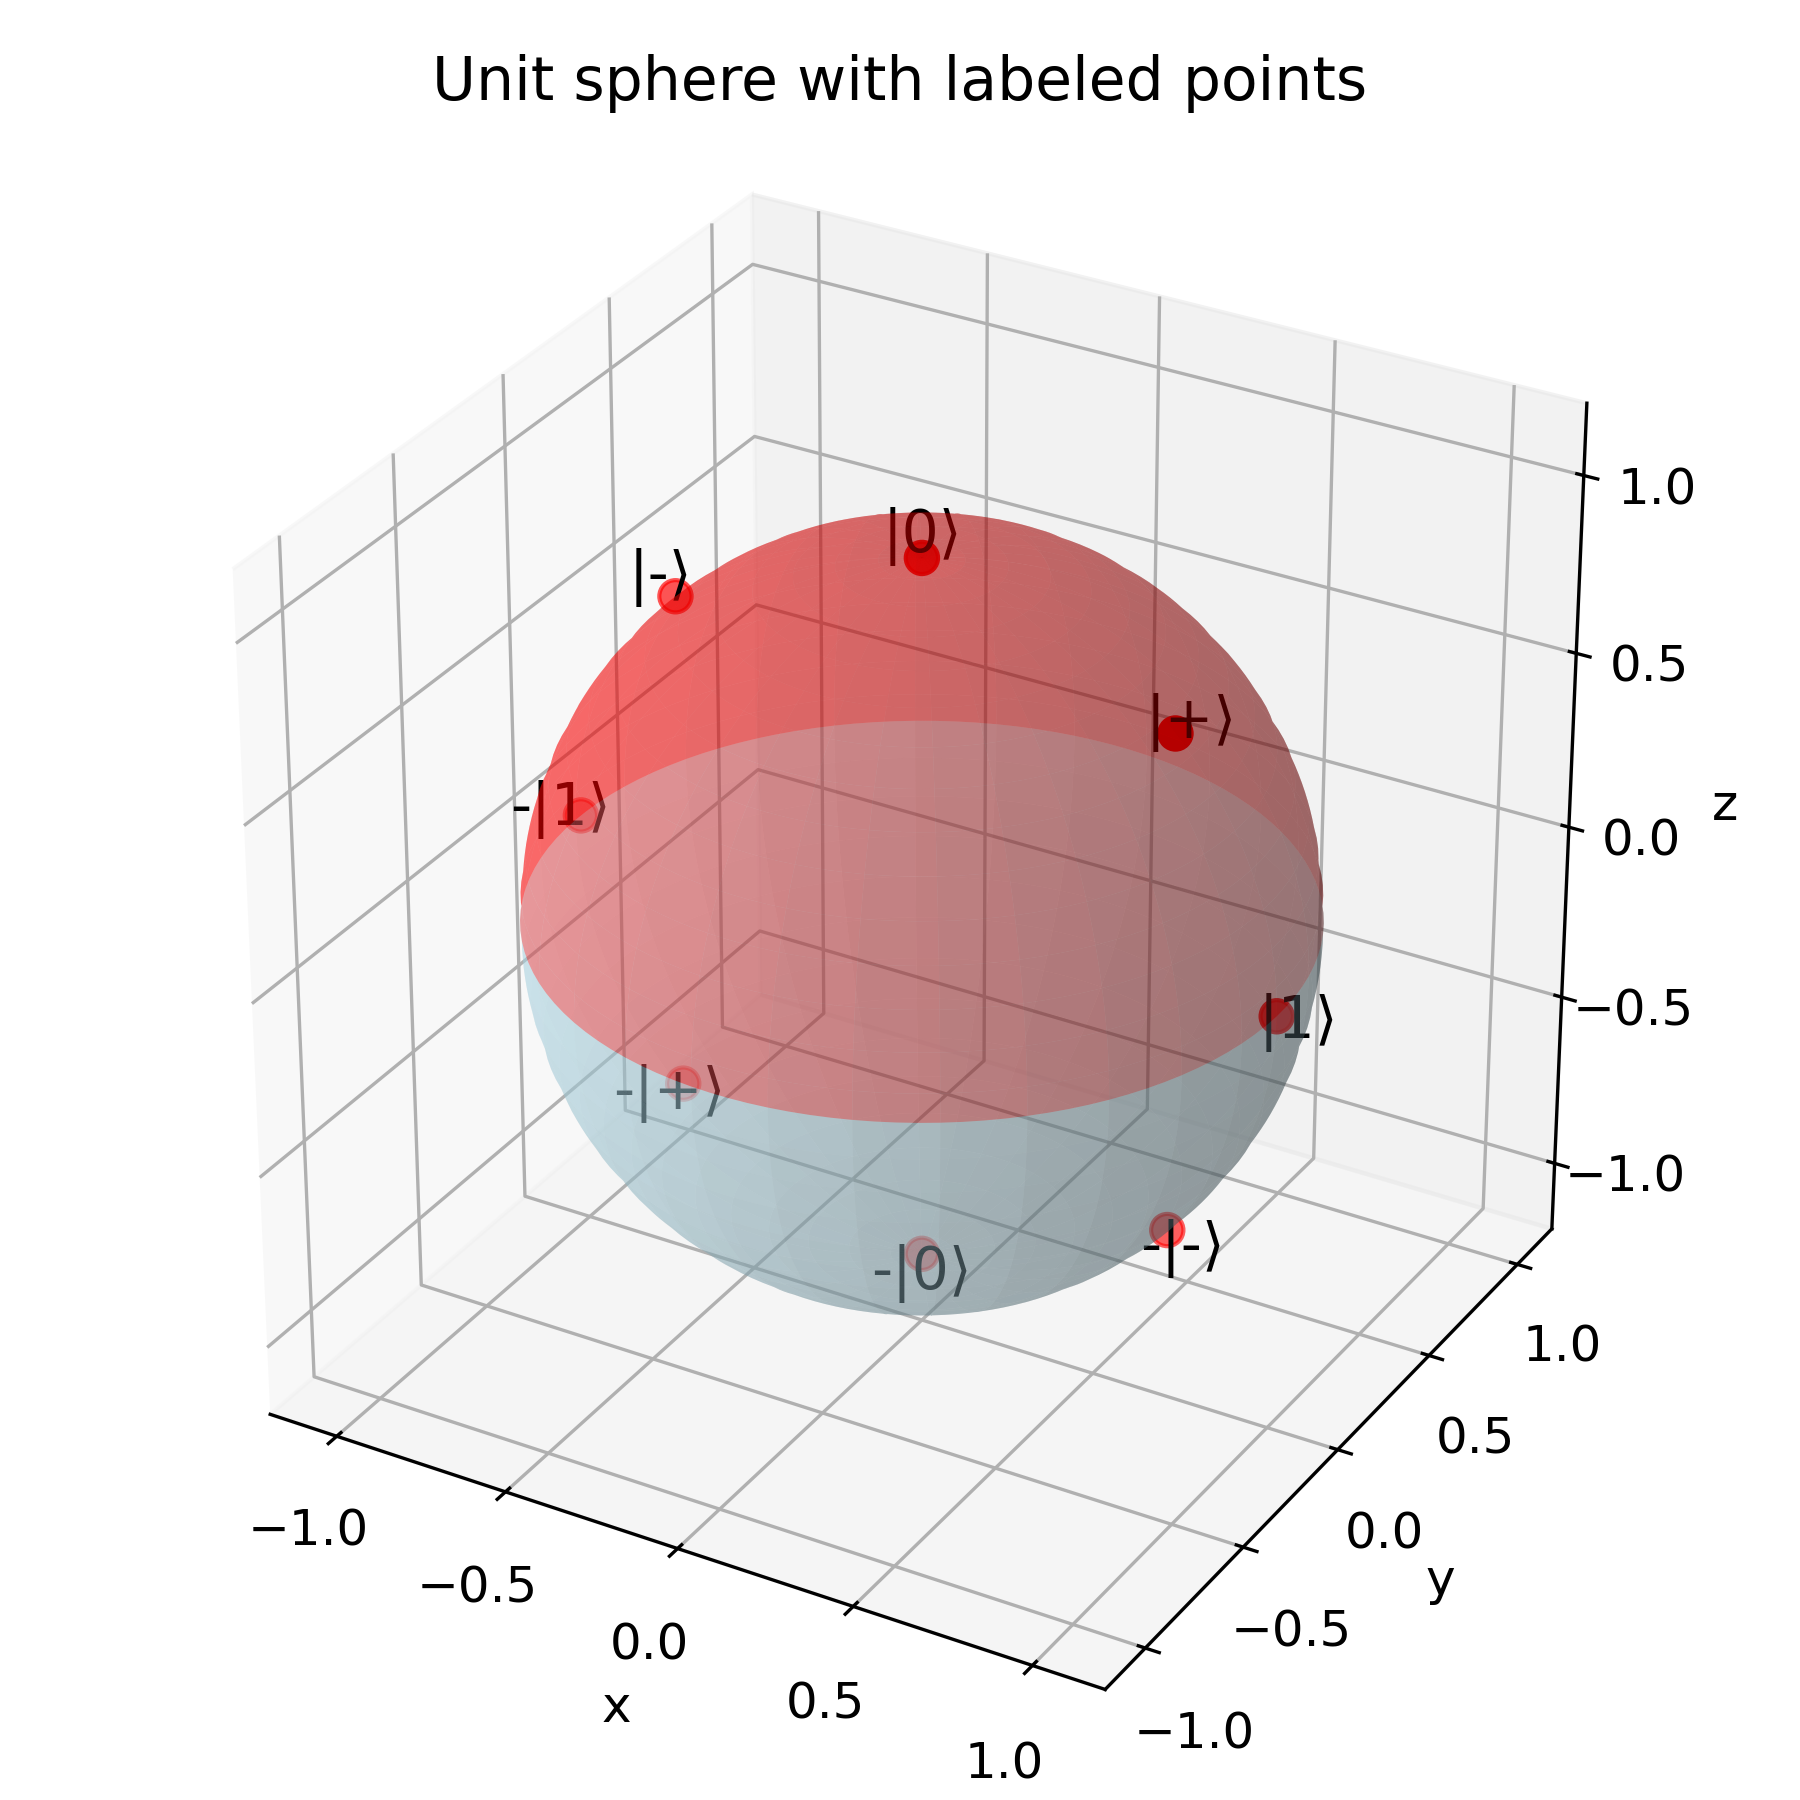
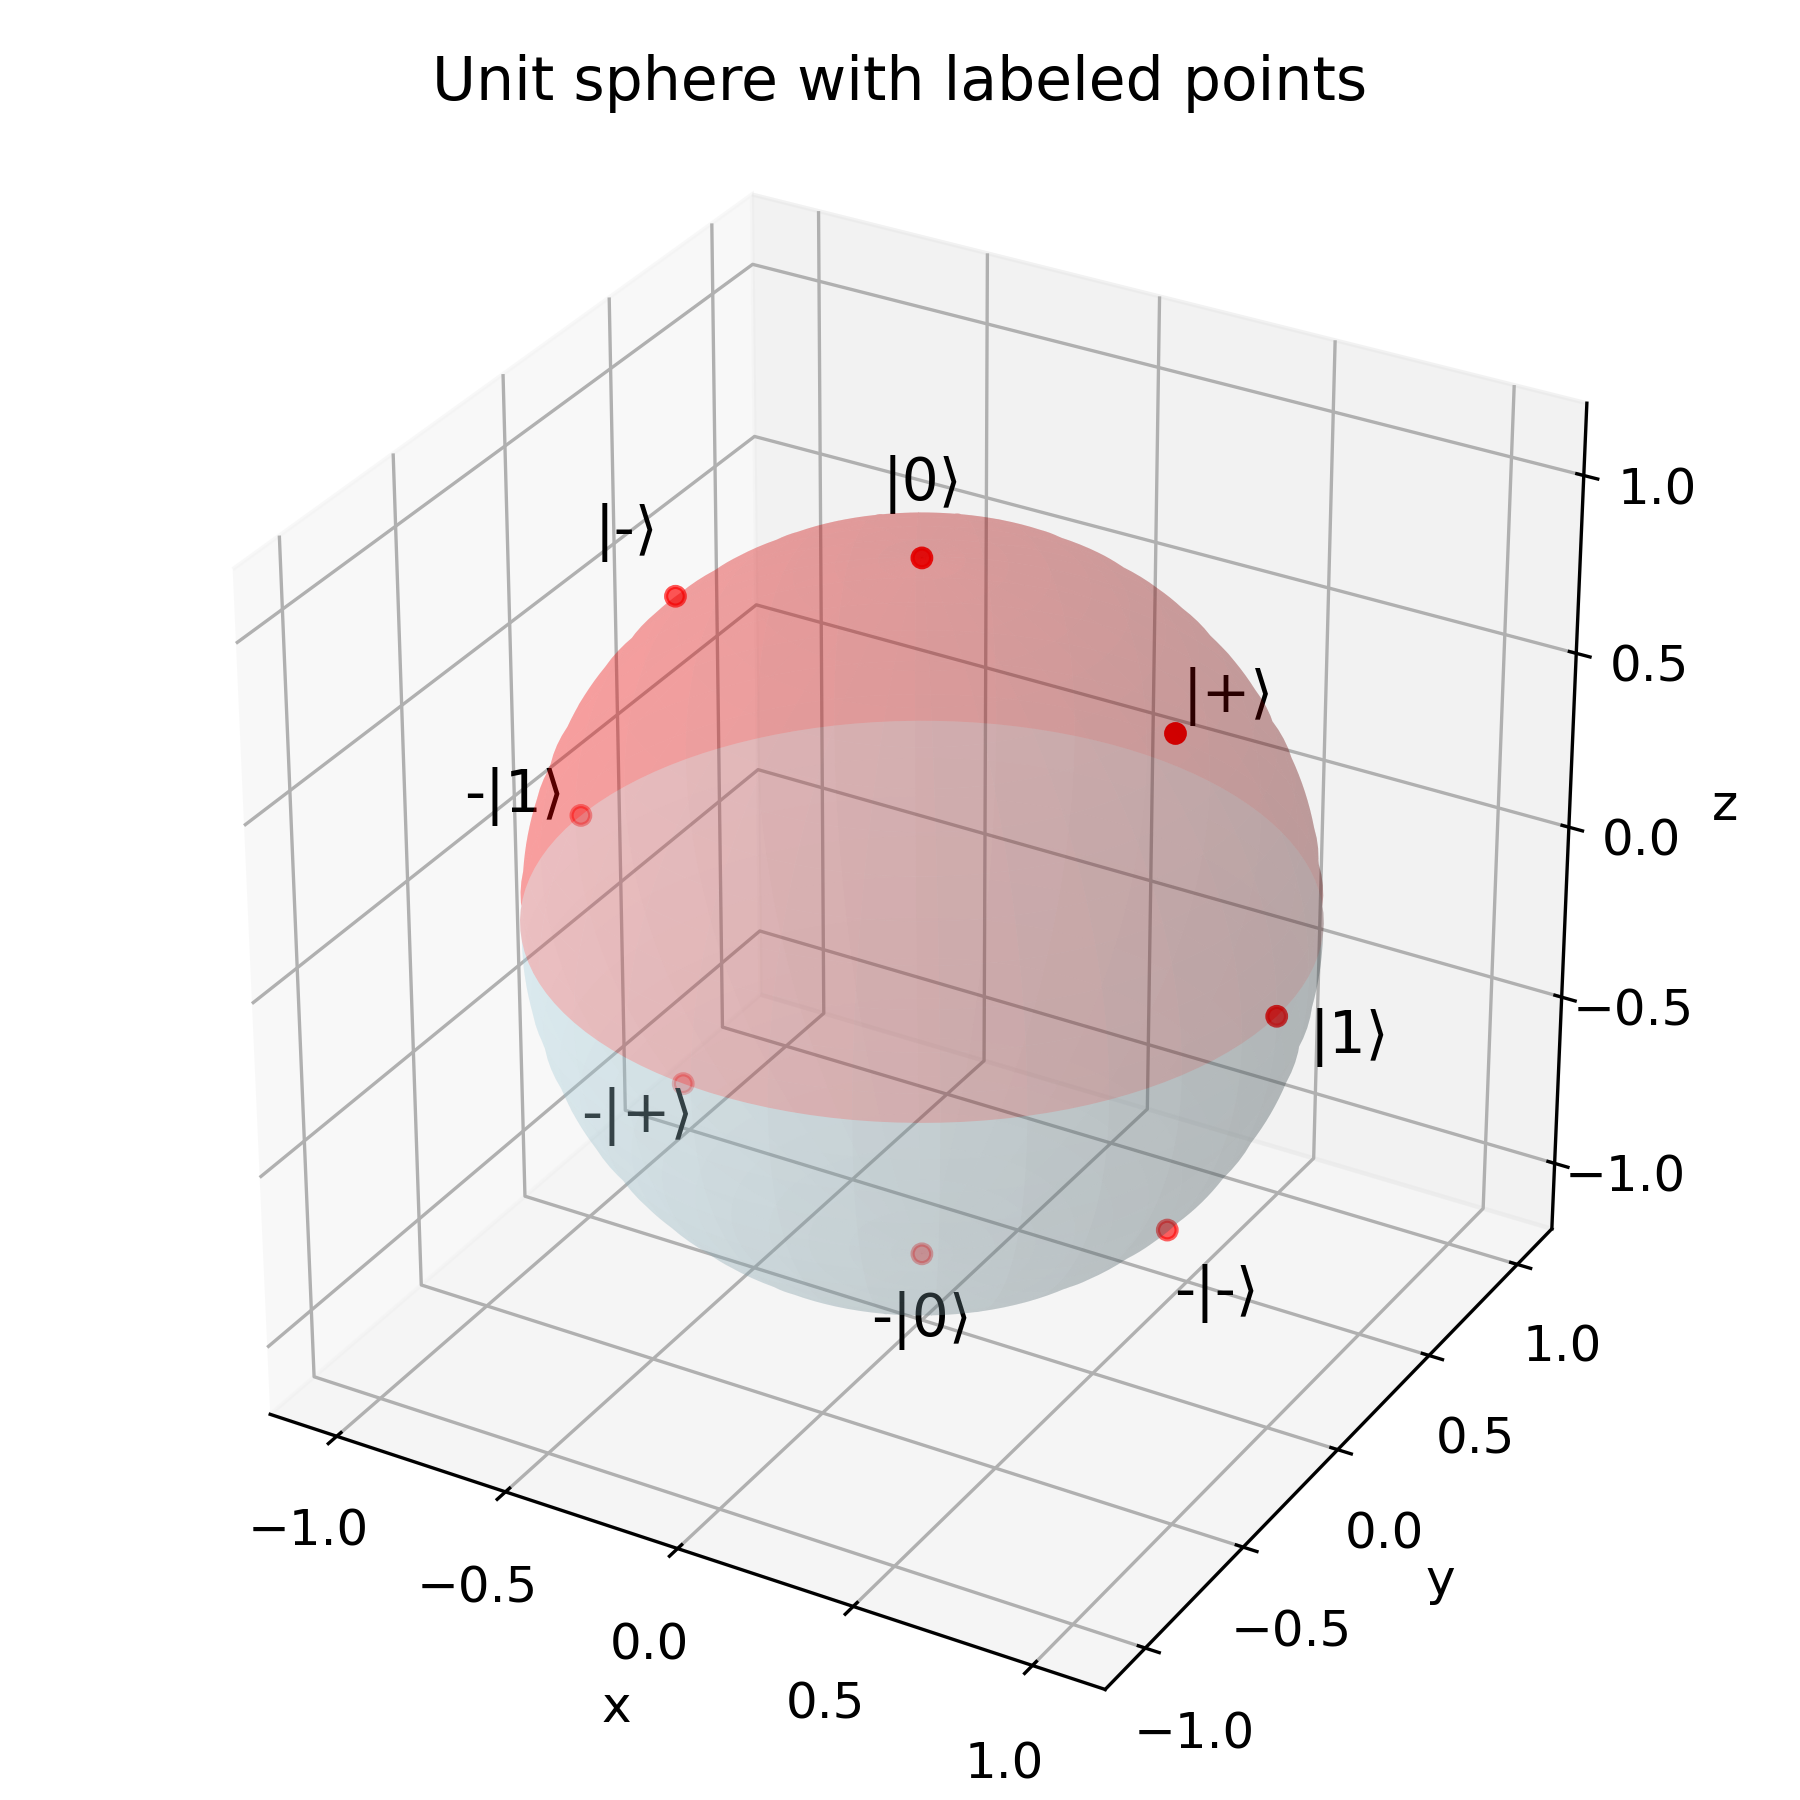
Adjust label position and use opacity global variable

Changed region(s): [[0.2489, 0.2489, 0.7778, 0.7467]]

diff --git a/plot_bloch_custom.py b/plot_bloch_custom.py
@@ -16,6 +16,8 @@ import matplotlib.pyplot as plt
 from mpl_toolkits.mplot3d import Axes3D  # noqa: F401
 import math
 
+OPACITY = 0.20
+
 def plot_hemisperes():
     fig = plt.figure(figsize=(6, 6))
     ax = fig.add_subplot(111, projection='3d')
@@ -27,7 +29,7 @@ def plot_hemisperes():
     y_red = np.outer(np.sin(u_red), np.sin(v_red))
     z_red = np.outer(np.ones_like(u_red), np.cos(v_red))
 
-    ax.plot_surface(x_red, y_red, z_red, rstride=4, cstride=4, color='red', alpha=0.35, linewidth=0)
+    ax.plot_surface(x_red, y_red, z_red, rstride=4, cstride=4, color='red', alpha=OPACITY, linewidth=0)
     
     # Create blue hemisphere
     u_blue = np.linspace(0, 2 * np.pi, 120)
@@ -36,7 +38,7 @@ def plot_hemisperes():
     y_blue = np.outer(np.sin(u_blue), np.sin(v_blue))
     z_blue = np.outer(np.ones_like(u_blue), np.cos(v_blue))
     
-    ax.plot_surface(x_blue, y_blue, z_blue, rstride=4, cstride=4, color='lightblue', alpha=0.35, linewidth=0)
+    ax.plot_surface(x_blue, y_blue, z_blue, rstride=4, cstride=4, color='lightblue', alpha=OPACITY, linewidth=0)
     
     return ax
 
@@ -54,7 +56,7 @@ def plot_sphere():
     y = np.outer(np.sin(u), np.sin(v))
     z = np.outer(np.ones_like(u), np.cos(v))
 
-    ax.plot_surface(x, y, z, rstride=4, cstride=4, color='lightblue', alpha=0.35, linewidth=0)
+    ax.plot_surface(x, y, z, rstride=4, cstride=4, color='lightblue', alpha=OPACITY, linewidth=0)
     
     return ax
 
@@ -88,13 +90,13 @@ def plot_sphere_and_points(save_path='bloch_custom.png', show=True, use_hemisphe
     xs = [p[0] for p in points.values()]
     ys = [p[1] for p in points.values()]
     zs = [p[2] for p in points.values()]
-    ax.scatter(xs, ys, zs, color='red', s=60)
+    ax.scatter(xs, ys, zs, color='red', s=20)
 
     # Annotate labels with a small offset so they don't overlap the marker
-    for label, (x0, y0, z0) in points.items():
+    for label, (x, y, z) in points.items():
         # offset factor (push label slightly outward)
-        off = 1.06
-        ax.text(x0 * off, y0 * off, z0 * off, label, fontsize=14, ha='center', va='center')
+        off = 1.2
+        ax.text(x * off, y * off, z * off, label, fontsize=14, ha='center', va='center')
 
     # Fix aspect ratio to be equal
     ax.set_box_aspect((1, 1, 1))
@@ -118,3 +120,4 @@ def plot_sphere_and_points(save_path='bloch_custom.png', show=True, use_hemisphe
 
 if __name__ == '__main__':
     plot_sphere_and_points(use_hemispheres=True)
+    plot_sphere_and_points(use_hemispheres=False)
